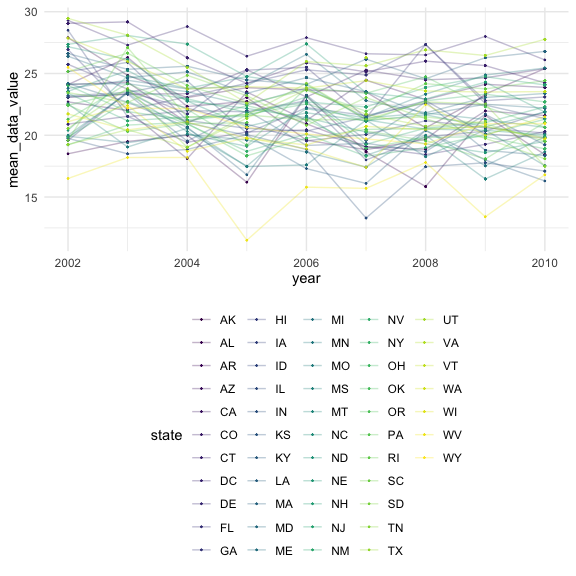
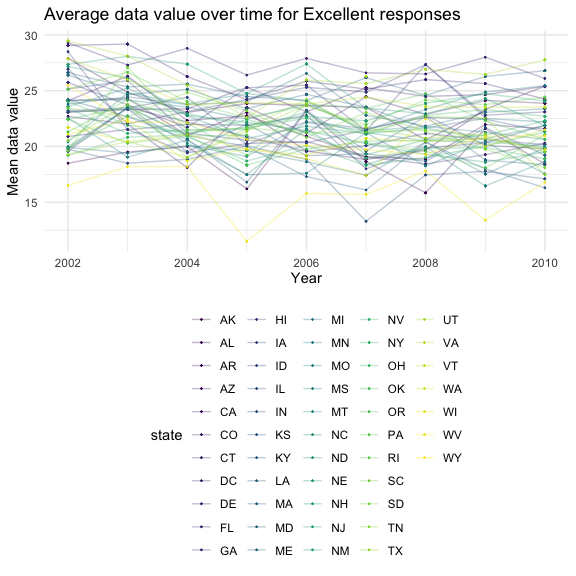
Change density plot to box plot for problem 2 Add individual data points for plot in problem 3 Edit and clean responses to all problems

diff --git a/p8105_hw3_hl2738.md b/p8105_hw3_hl2738.md
@@ -4,6 +4,8 @@ Heidi Lumish
 
 ## Problem 1
 
+#### Load the Instacart dataset
+
 First we will load in the Instacart data from the p8105.datasets
 library.
 
@@ -26,10 +28,9 @@ different aisles.
 
 #### How many aisles are there, and which aisles are the most items ordered from?
 
-There are 134 aisles, and the most items are ordered from aisle. Using
-the following code chunk, we can determine that the most items are
-ordered from the aisle fresh vegetables, fresh fruits, packaged
-vegetables, yogurt, and packaged cheese.
+There are 134 aisles. Using the following code chunk, we can determine
+that the most items are ordered from the aisles fresh vegetables, fresh
+fruits, packaged vegetables, yogurt, and packaged cheese.
 
 ``` r
 instacart %>% 
@@ -51,6 +52,9 @@ instacart %>%
 
 #### Plot showing the number of items ordered in each aisle
 
+Next we will make a plot that shows the number of items ordered in each
+aisle, limiting this to aisles with more than 10000 items ordered.
+
 ``` r
 instacart %>% 
   group_by(aisle) %>% 
@@ -69,11 +73,15 @@ instacart %>%
 
 <img src="p8105_hw3_hl2738_files/figure-gfm/unnamed-chunk-3-1.png" width="90%" />
 
+This plot again demonstrates that the most items are ordered from the
+aisles mentioned above.
+
 #### Table of three most popular items
 
-Make a table showing the three most popular items in each of the aisles
-“baking ingredients”, “dog food care”, and “packaged vegetables fruits”.
-Include the number of times each item is ordered in your table.
+Now we will make a table showing the three most popular items in each of
+the aisles “baking ingredients”, “dog food care”, and “packaged
+vegetables fruits”. Included in the table is the number of times each
+item is ordered.
 
 ``` r
 instacart %>% 
@@ -100,7 +108,7 @@ instacart %>%
     values_from = "product"
     ) %>% 
   knitr::kable(format = "simple",
-               caption = "Top three most popular items by aisle")
+               caption = "Top three most popular items by aisle with number of items ordered")
 ```
 
 | Rank | Baking Ingredients     | Dog Food Care                                     | Packaged Vegetables Fruits |
@@ -109,7 +117,11 @@ instacart %>%
 |    2 | Pure Baking Soda: 387  | Organix Chicken & Brown Rice Recipe: 28           | Organic Raspberries: 5546  |
 |    3 | Cane Sugar: 336        | Small Dog Biscuits: 26                            | Organic Blueberries: 4966  |
 
-Top three most popular items by aisle
+Top three most popular items by aisle with number of items ordered
+
+We can see that the top items ordered are light brown sugar for baking
+ingredients, snack sticks for dog food care, and organic baby spinach
+for packaged vegetables and fruits.
 
 #### Pink Lady Apples and Coffee Ice Cream
 
@@ -157,9 +169,12 @@ instacart %>%
 
 Mean hour for ordering products by day of the week
 
+We can see that overall, on average, coffee ice cream is ordered later
+in the day than Pink Lady apples.
+
 ## Problem 2
 
-#### Load and clean the BRFSS dataset
+### Load and clean the BRFSS dataset
 
 First we will load the BRFSS dataset from the p8105.datasets package.
 
@@ -167,7 +182,10 @@ First we will load the BRFSS dataset from the p8105.datasets package.
 data("brfss_smart2010")
 ```
 
-Next we will clean the data.
+Next we will clean the data. This includes limiting the data set to the
+“Overall Health” topic, including only responses from “Excellent” to
+“Poor,” and organizing responses as a factor taking levels ordered from
+“Poor” to “Excellent.”
 
 ``` r
 brfss = brfss_smart2010 %>% 
@@ -185,9 +203,9 @@ brfss = brfss_smart2010 %>%
   )
 ```
 
-#### BRFSS dataset questions
+### BRFSS dataset questions
 
-###### Observed at 7 or more locations
+#### Observed at 7 or more locations
 
 In 2002, which states were observed at 7 or more locations? What about
 in 2010?
@@ -246,12 +264,14 @@ brfss %>%
     ## 13 TX       16
     ## 14 WA       10
 
-###### Excellent responses
+#### Excellent responses
 
-Construct a dataset that is limited to *Excellent* responses, and
-contains year, state, and a variable that averages the data\_value
-across locations within a state. Make a “spaghetti” plot of this average
-value over time within a state.
+We will now construct a dataset that is limited to *Excellent* responses
+and contains year, state, and a variable that averages the data\_value
+across locations within a state. We will then make a “spaghetti” plot of
+this average value over time within a state. From the spaghetti plot, we
+can see that overall, the average data value tended to decrease over
+time from 2002 to 2010.
 
 ``` r
 excellent = brfss %>% 
@@ -265,7 +285,11 @@ excellent = brfss %>%
 excellent %>% 
   ggplot(aes(x = year, y = mean_data_value, color = state)) +
   geom_point(size = .2) + 
-  geom_line(aes(group = state), alpha = .3)
+  geom_line(aes(group = state), alpha = .3) +
+  labs(
+    title = "Average data value over time for Excellent responses",
+    x = "Year",
+    y = "Mean data value")
 ```
 
     ## Warning: Removed 71 rows containing missing values (geom_point).
@@ -274,24 +298,25 @@ excellent %>%
 
 <img src="p8105_hw3_hl2738_files/figure-gfm/unnamed-chunk-9-1.png" width="90%" />
 
-###### Distribution of responses in 2006 and 2010 in NY state
+#### Distribution of responses in 2006 and 2010 in NY state
 
-Make a two-panel plot showing, for the years 2006, and 2010,
-distribution of data\_value for responses (“Poor” to “Excellent”) among
-locations in NY State.
+We will now filter the data to include the years 2006 and 2010 only and
+limit the dataset to NY state. The box plot below shows the distribution
+of data\_value for responses (“Poor” to “Excellent”) among locations in
+NY State.
 
 ``` r
 brfss %>% 
   filter(
     year == c("2006", "2010"),
     state == "NY") %>% 
-  ggplot(aes(x = data_value, fill = response)) +
-  geom_density() + 
+  ggplot(aes(x = response, y = data_value, color = response)) +
+  geom_boxplot() + 
   facet_grid(.~year) +
   labs(
     title = "Distribution of data values by response in NY",
-    x = "Data value",
-    y = "Density")
+    x = "Response",
+    y = "Data Value")
 ```
 
     ## Warning in year == c("2006", "2010"): longer object length is not a multiple of
@@ -299,24 +324,29 @@ brfss %>%
 
 <img src="p8105_hw3_hl2738_files/figure-gfm/unnamed-chunk-10-1.png" width="90%" />
 
-This density plot shows that a response of “Poor” correlated with the
+These box plots plot show that a response of “Poor” correlated with the
 lowest data values, both in 2006 and 2010. A response of “Fair”
 similarly correlated with lower data values, though not quite as low as
 for “Poor.” In 2006, there was overlap between the data values for
-“Good,” “Very good,” and “Excellent responses. In 2010, the highest data
-values coresponsed with”Good" and “Very good” responses.
+“Good,” “Very good,” and “Excellent” responses. In 2010, the highest
+data values coresponded with “Good” and “Very good” responses, whereas
+data values for “Excellent” were slightly lower and were more similar to
+the values in 2006.
 
 ## Problem 3
 
 This problem uses five weeks of accelerometer data collected on a 63
 year-old male with BMI 25, who was admitted to the Advanced Cardiac Care
 Center of Columbia University Medical Center and diagnosed with
-congestive heart failure (CHF). The variables activity.\* are the
-activity counts for each minute of a 24-hour day starting at midnight.
+congestive heart failure (CHF). The variables include the activity
+counts for each minute of a 24-hour day starting at midnight.
 
 #### Load and tidy the accelerometer data
 
-First we will load, tidy, and wrangle the accelerometer data.
+First we will load, tidy, and wrangle the accelerometer data. We will
+add a variable specifying “weekday” vs. “weekend,” and we will use
+pivot\_longer to create a variable for minute of the day and a separate
+variable for the activity counts.
 
 ``` r
 accel = read_csv("./data/accel_data.csv") %>% 
@@ -354,20 +384,18 @@ accel = read_csv("./data/accel_data.csv") %>%
 
 #### Summary of the dataset
 
-Describe the resulting dataset (e.g. what variables exist, how many
-observations, etc).
-
 The tidied accelerometer dataset has 6 variables and 50400 observations.
 It includes data from week 1 to week 5 of the study. The dataset
-includes activity counts for each minute of 24-hour day. The mean
-activity count per minute during the study period was 267.0440592.
+includes activity counts for each minute of of the day, ranging from 1
+to 999. The mean activity count per minute during the study period was
+267.04.
 
 #### Total activity per day
 
 Traditional analyses of accelerometer data focus on the total activity
-over the day. Using your tidied dataset, aggregate across minutes to
-create a total activity variable for each day, and create a table
-showing these totals. Are any trends apparent?
+over the day. Using your the tidied dataset, we will aggregate the data
+across minutes to create a total activity variable for each day, and
+create a table showing these totals. Are any trends apparent?
 
 ``` r
 accel %>% 
@@ -379,24 +407,30 @@ accel %>%
   pivot_wider(
     names_from = "day",
     values_from = "total_activity"
-  )
+  ) %>% 
+  knitr::kable()
 ```
 
-    ## # A tibble: 5 × 8
-    ##    week  Friday  Monday Saturday Sunday Thursday Tuesday Wednesday
-    ##   <dbl>   <dbl>   <dbl>    <dbl>  <dbl>    <dbl>   <dbl>     <dbl>
-    ## 1     1 480543.  78828.   376254 631105  355924. 307094.   340115.
-    ## 2     2 568839  295431    607175 422018  474048  423245    440962 
-    ## 3     3 467420  685910    382928 467052  371230  381507    468869 
-    ## 4     4 154049  409450      1440 260617  340291  319568    434460 
-    ## 5     5 620860  389080      1440 138421  549658  367824    445366
+| week |   Friday |    Monday | Saturday | Sunday | Thursday |  Tuesday | Wednesday |
+|-----:|---------:|----------:|---------:|-------:|---------:|---------:|----------:|
+|    1 | 480542.6 |  78828.07 |   376254 | 631105 | 355923.6 | 307094.2 |    340115 |
+|    2 | 568839.0 | 295431.00 |   607175 | 422018 | 474048.0 | 423245.0 |    440962 |
+|    3 | 467420.0 | 685910.00 |   382928 | 467052 | 371230.0 | 381507.0 |    468869 |
+|    4 | 154049.0 | 409450.00 |     1440 | 260617 | 340291.0 | 319568.0 |    434460 |
+|    5 | 620860.0 | 389080.00 |     1440 | 138421 | 549658.0 | 367824.0 |    445366 |
+
+From this table, we can see that total activity seemed to decrease from
+week 1 to week 5 on the weekends.
 
 #### 24-hour activity pattern by day
 
-Accelerometer data allows the inspection activity over the course of the
-day. Make a single-panel plot that shows the 24-hour activity time
-courses for each day and use color to indicate day of the week. Describe
-in words any patterns or conclusions you can make based on this graph.
+Accelerometer data allows the inspection of activity over the course of
+the day. Next we will make a single-panel plot that shows the 24-hour
+activity time courses for each day and use color to indicate day of the
+week.
+
+This first plot shows the individual data points with super-imposed
+geom\_smooth lines.
 
 ``` r
 accel %>% 
@@ -405,15 +439,41 @@ accel %>%
     activity = activity/60
     ) %>% 
   ggplot(aes(x = activity, y = counts, color = day)) + 
-  geom_point() +
+  geom_point(alpha = .5) +
+  geom_smooth(aes(group = day),se = FALSE) +
   labs(
     title = "24-hour activity pattern by day of the week",
     x = "Hour",
     y = "Activity")
 ```
 
+    ## `geom_smooth()` using method = 'gam' and formula 'y ~ s(x, bs = "cs")'
+
 <img src="p8105_hw3_hl2738_files/figure-gfm/unnamed-chunk-13-1.png" width="90%" />
 
-Based on this plot, we can see that there are two peaks of activity
-during the day, around 10 am and 8 pm. The most activity tended to occur
-on the weekends and on Fridays.
+This second plot shows only the geom\_smooth function and more clearly
+depicts the activity trends over the course of a day.
+
+``` r
+accel %>% 
+  mutate(
+    activity = as.numeric(as.character(activity)),
+    activity = activity/60
+    ) %>% 
+  ggplot(aes(x = activity, y = counts, color = day)) + 
+  geom_smooth(se = FALSE) +
+  labs(
+    title = "24-hour activity pattern by day of the week",
+    x = "Hour",
+    y = "Activity")
+```
+
+    ## `geom_smooth()` using method = 'gam' and formula 'y ~ s(x, bs = "cs")'
+
+<img src="p8105_hw3_hl2738_files/figure-gfm/unnamed-chunk-14-1.png" width="90%" />
+
+Based on both plots, we can see that there are two peaks of activity. On
+Sundays, it appears that the patient was most active, or perhaps had
+scheduled exercise, around 10 am. The second activity peak occurred on
+Fridays, around 8-9 pm. The patient had the lowest activity on
+Saturdays.
